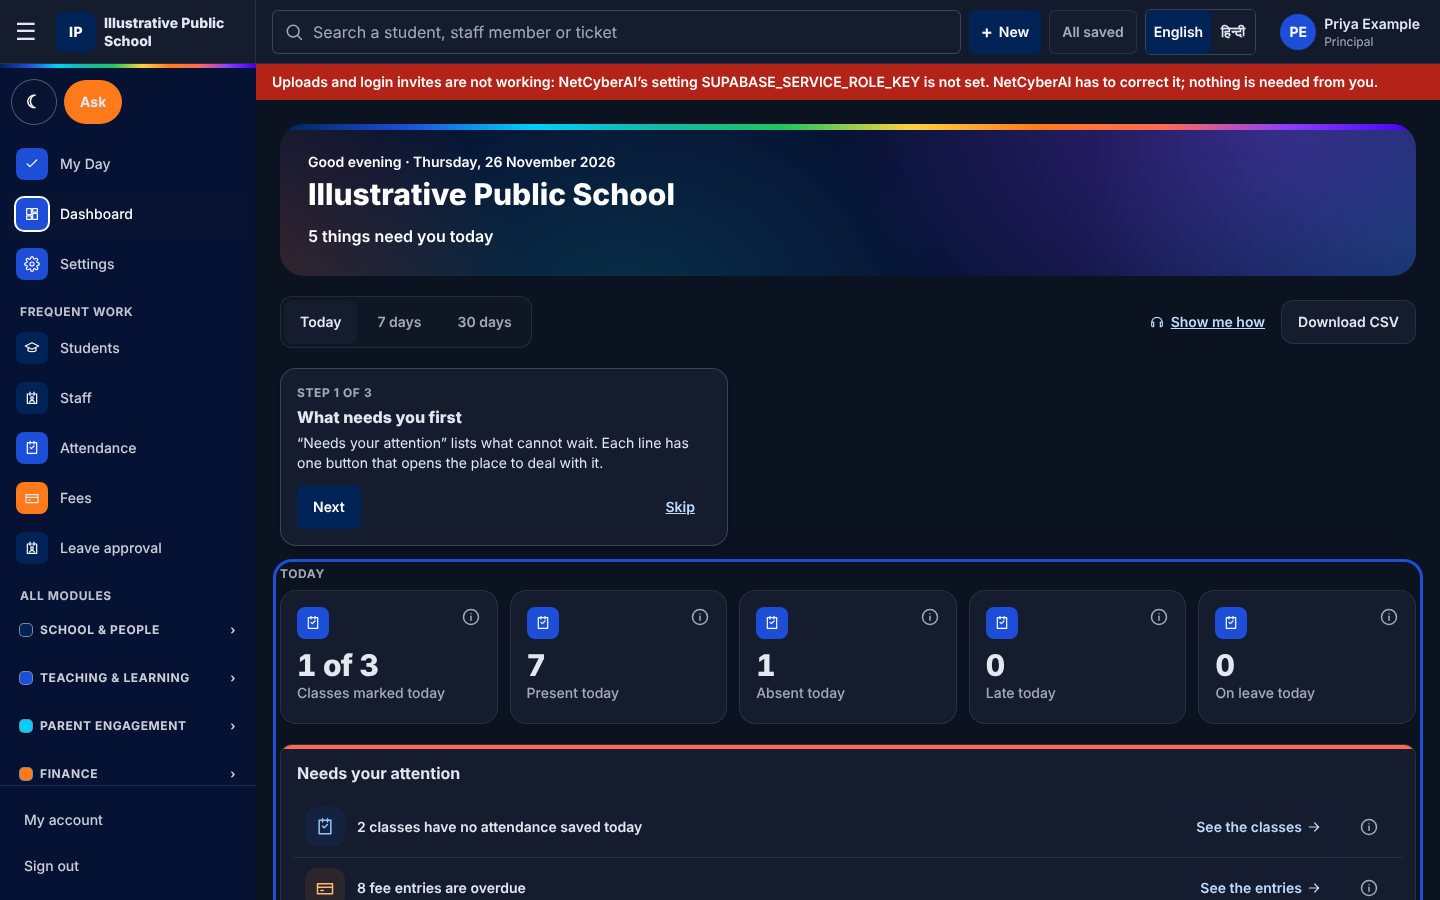
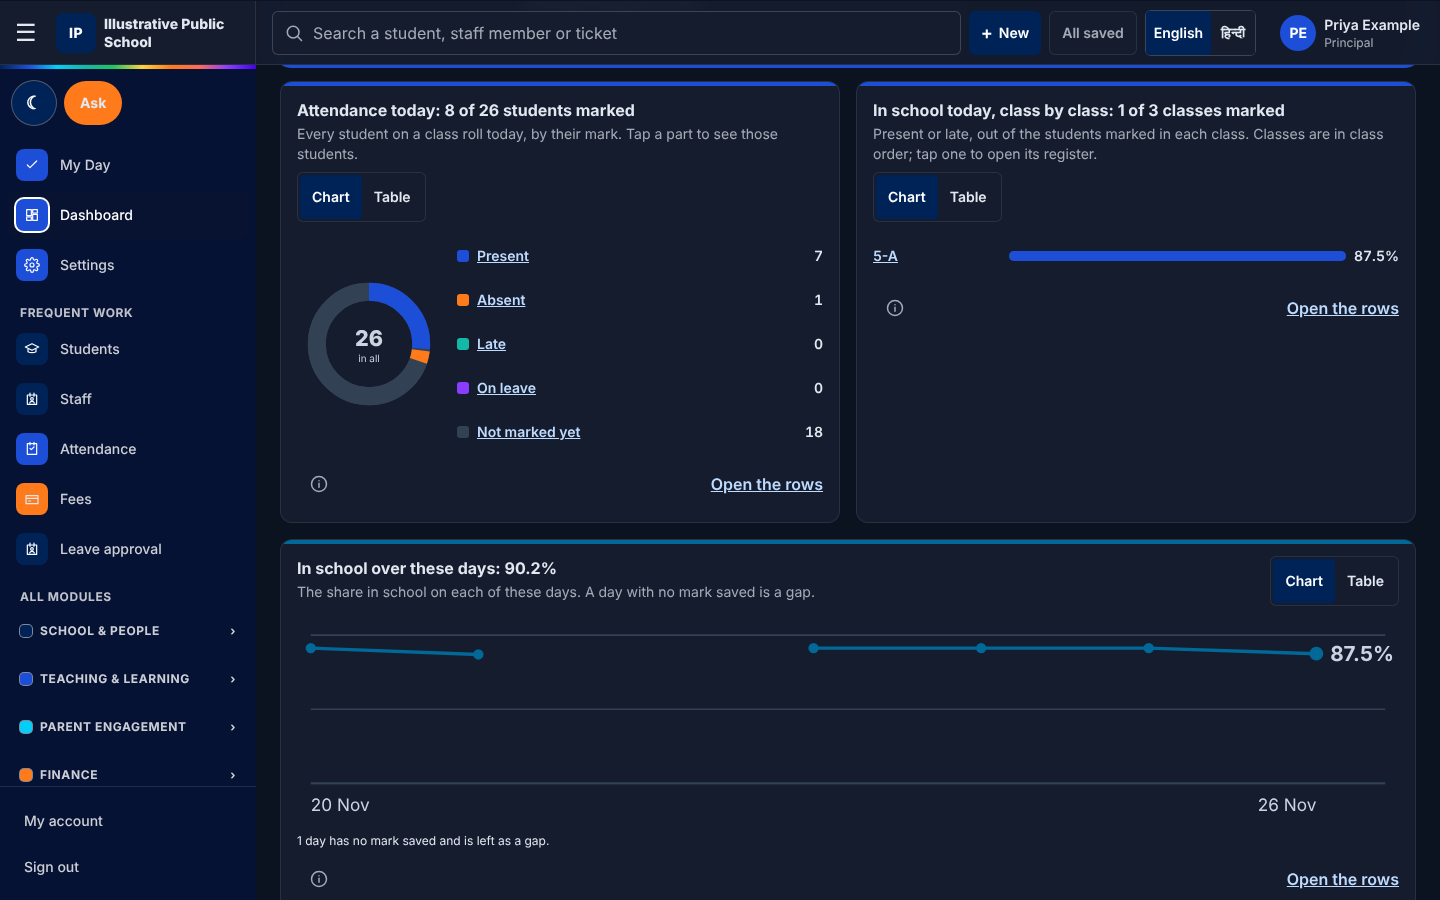
Dashboard charts merged; Decision Log C552, C553

diff --git a/docs/10_DECISION_LOG.md b/docs/10_DECISION_LOG.md
@@ -716,6 +716,8 @@ Prompt: `docs/family-app/prompts/F1_PROMPT.md`. |
 | **C549** | Founder (2026-11-25, after a browser test): the school assistant works like a capable colleague: shows what it is doing, reads photos, guides, remembers, admits mistakes, and reports faults itself. | The test's wrong answers came from earlier replies fed back as words the model had "just said", which a weak model copied: earlier conversation is now context inside the person's message, marked as possibly out of date, with the instruction to read fresh data and to correct an earlier wrong answer. Each step is streamed to the screen (thinking, reading, trying on a copy, fixing) beside an animated face that stops under reduced motion. Photos (up to 3, shrunk on the phone) go to the model with the message and are never stored; a plan that would write an Aadhaar-shaped number is sent back. "How do I" questions are answered from the app's own guides with the page as a link. Links the agent shows are this app's own pages and files only; files a change made (a certificate's PDF) are listed once it is live. A route that breaks (5xx) raises a support ticket to NetCyberAI by itself, emailed at once, and the reply gives its number; a refusal (4xx) does not. Migration `20261125051102_c549_agent_message_extras.sql` (links, ticket, photo count beside each reply). How capable it feels still rests on the model chosen in Control → AI for school_agent.plan; photos need one that reads pictures. |
 | **C550** | Founder (2026-11-25): "whatever work the principal can do, the agent can do, with permission"; the School app installs from the website. | Opened to the agent with the principal's approval (tier 2): fee concessions and fee follow-ups, certificate fee waivers, staff invitations, attendance corrections (with a reason), merging guardian records and linking siblings, ID-card tokens, homework recovery plans: 224 routes across 37 modules. Kept closed, because a principal's approval cannot make them safe: recording payments, receipts, bank lines and payment set-up (they must match real money the agent cannot see); password resets, the WhatsApp keys and the plan NetCyberAI sets (account security); consent and data rights (the parent's legal act); marking answer sheets and marking a day's attendance (the teacher's own record of what happened); exports, files and uploads (data leaving the app). A route that sends or calls out by itself fails in the agent with a plain "do it from its own screen" and raises no ticket. /school-app installs "NetCyberAI School" (school.webmanifest, opens /app) for the principal and the office, beside /teacher-app and /family/install; linked from the site's header and footer. |
 | **C551** | Founder (2026-11-25, browser test after #456): a change is never claimed without a plan; a removed record is shown as removed; a new chat starts clean. | (1) A reply that says a change was made ("Created class 10-Z") with no plan sent is sent back to the model ("NO PLAN SENT"), twice at most; then the person is told plainly nothing was changed. The prompt says never to ask the person for an id or a session: the current session is read. (2) A live change records what really changed when it went live, with the real ids (the check's ids were rolled back); when every record it made is gone (a class later deleted), the list says "Made live, since removed". (3) "New chat" starts afresh: what came before stays on record but is not shown or sent as context; context is also limited to the last 6 hours. |
+| **C552** | Founder (2026-11-26): the apps installed from the browser would not install together on one phone. | Three manifests claimed the whole site (scope "/"), so Chrome treated every page as already installed. The School app now owns /app (id /school-app, the same in src/app/manifest.ts and public/school.webmanifest) and the Family app /family (id /family); no app claims "/" (test/install-manifests.test.ts). Teachers install the same School app: two apps on one phone share one sign-in, so a separate Teacher app could not keep a teacher signed in beside the principal. /teacher-app stays and installs it. |
+| **C553** | Founder (2026-11-26): three themes and dark mode for the school app; a richer principal dashboard. | Themes (classic blue, emerald green, royal plum) and light/dark/"like my phone" for the school app only (principal, office, teachers). Not themed and never dark: the Family app (lessons, labs, models and pictures are drawn for a white page), the website, Control, and every printed or PDF document (dark rules are screen-only). Built with CSS variables the Tailwind colours read, falling back to their own tokens, so nothing outside the school app changes and nothing runs at load: no new script, no server work, one column (schools.app_theme, migrations 20261126160931 and 20261126161053, office-only by row level security) and a cookie for the person's own mode. Each theme × mode is tested for AA text and white-on-button contrast; the chart colours of each theme are kept apart. Dashboard: five new facts (attendance by class, students by class, fees received each day, syllabus by class, the admissions steps) and five chart kinds (donut, horizontal bars, area, funnel, progress), hand-drawn SVG with no chart library, each with a table view. Classes are always in the school's own order, never ranked (docs/26 §3), and the attendance donut is built from the existing facts rather than a second count. |
 | **C227** | P7 10d: the compliance desk (docs/28). | **Rule:** /app/compliance/desk is the office's (principal and school admin) and the plan feature `compliance-desk`. Teacher qualifications and TET sit on the staff record and follow the website register's own rules, imported. A blank valid-until date means no end date; no expiry is worked out from the certificate's date. Disclosure items are append-only versions, with a printable page and CSV, and nothing is published. Form 6 is read from its existing advisory. SQAAF evidence is tagged to CBSE's 84 standards, which are stored word for word with the document's URL and the date read; the migration stops if the copy does not match the document's own counts. Every typed field uses the one Aadhaar rule. Audit rows hold ids and codes. | docs/28 row 10d and C223-A answer 1. Importing the register's rules keeps one rule in one place. Versions, not overwrites, keep the disclosure honest over time. The standards come from CBSE's own document, never invented. |
 | **C228** | P7 10e: documents and certificates (docs/28). | **Rule:** TC, bonafide, character and study certificates are made from the student record, in the website studio's wording (imported). Issuing needs the fee clearance (nothing owed, or the counter's override), or the principal's waiver with a reason. The database numbers each type per school, under a lock, with no gaps and no reuse; a withdrawn certificate keeps its number. There is one live TC per child, and one live certificate per type, purpose and day. The public QR page reads one random token (192 bits) through one definer function and shows only valid or withdrawn, the type, the school, the date, the number and the first name with the surname's initial. The principal keeps the seal and the signature. The PDF reaches the family only through the send-gate, as a link that lasts 30 days and stops working once the certificate is withdrawn or erased. A child's erasure keeps the register's numbers and blanks the words. | docs/28 row 10e. A verifier needs to match the paper, and nothing more is shown publicly. Numbers by the database cannot clash or be reused. The fee hold is the school's own rule, with the principal's waiver for exceptions. |
 | **C229** | P7 10f: the timetable generator (docs/28). | **Rule:** A deterministic solver (no AI, no randomness: the same input gives the same week) proposes a week from the school's loads, each teacher's unavailable periods and the setting `timetable.max_consecutive` (default 12, no limit), with no clash. Whatever it cannot place it lists, with the reason. It only proposes: the office (principal, school admin, academic coordinator) reviews a draft beside the timetable in force, may swap periods, and publishes. Publishing applies the entry path's checks (class, subject, an active teacher, the clash guard) and writes its audit row for each period, in a few statements for all of them and in one transaction; it is refused if the timetable moved since the draft was made, and a hand edit waits while a publish runs (review of C229). Every publish is kept, append-only, with the timetable before and after, and can be read back. The plan feature is `timetable-generator`. | docs/28 row 10f and C223-A answer 1. A person decides; the guard that already protects manual entry protects publishing too. A fixed, reproducible solver can be tested and explained. |
